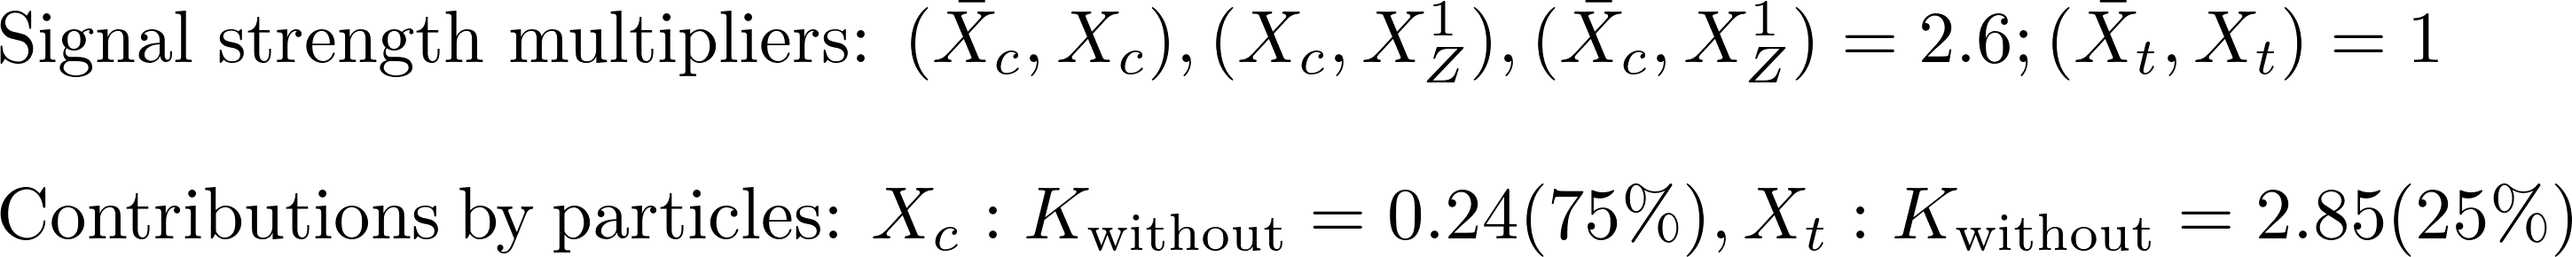
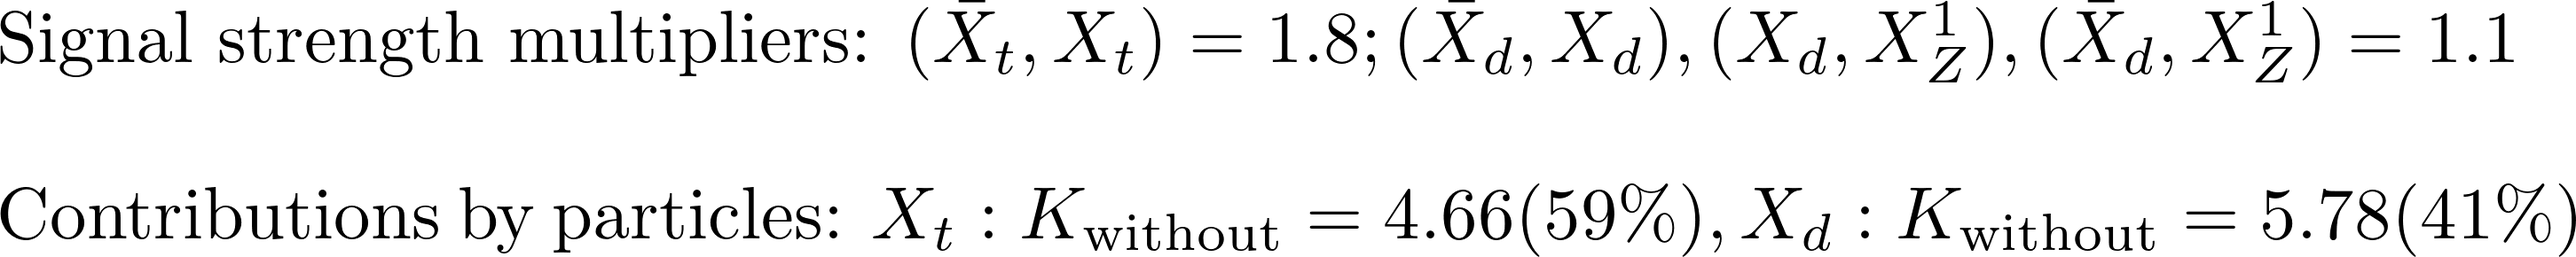
automated update by plotHiscore.py to /scratch-cbe/users/wolfgan.waltenberger/git/smodels.github.io/protomodels

diff --git a/protomodels/2020_PioneerStudy/closure_frozen10/index.html b/protomodels/2020_PioneerStudy/closure_frozen10/index.html
@@ -1,30 +1,31 @@
 <html>
 <body>
 <center>
-<table><td><h1>Current best protomodel: <i>K</i>=4.12</h1><td><img height=60px src=https://smodels.github.io/pics/banner.png></table>
+<table><td><h1>Current best protomodel: <i>K</i>=8.33</h1><td><img height=60px src=https://smodels.github.io/pics/banner.png></table>
 </center>
-<b><a href=./hiscore.slha>ProtoModel</a> <a href=./pmodel.py>(dict)</a> produced with <a href=https://smodels.github.io/docs/Validation124doublefrozen10>database v1.2.4doublefrozen10</a>, combination strategy <a href=./matrix_aggressive.png>aggressive</a> in walker 15 step 923.</b> <i>K</i> plots for: <a href=./M1000022.png?15052720>X<sub>Z</sub><sup>1</sup></a>, <a href=./M1000006.png?15052720>X<sub>t</sub></a>, <a href=./M1000004.png?15052720>X<sub>c</sub></a>. HPD plots for: <a href=./llhd1000006.png?15052720>X<sub>t</sub></a>, <a href=./llhd1000004.png?15052720>X<sub>c</sub></a>. SSM plots for: <a href=./ssm_-1000006_1000006.png?15052720>(x&#772;<sub>t</sub>,X<sub>t</sub>)</a><br>
+<b><a href=./hiscore.slha>ProtoModel</a> <a href=./pmodel.py>(dict)</a> produced with <a href=https://smodels.github.io/docs/Validation124frozen10>database v1.2.4frozen10</a>, combination strategy <a href=./matrix_aggressive.png>aggressive</a> in walker 15 step 967.</b> <i>K</i> plots for: <a href=./M1000022.png?15309859>X<sub>Z</sub><sup>1</sup></a>, <a href=./M1000006.png?15309859>X<sub>t</sub></a>, <a href=./M1000001.png?15309859>X<sub>d</sub></a>. HPD plots for: <a href=./llhd1000006.png?15309859>X<sub>t</sub></a>, <a href=./llhd1000001.png?15309859>X<sub>d</sub></a>. SSM plots for: <a href=./ssm_-1000006_1000006.png?15309859>(x&#772;<sub>t</sub>,X<sub>t</sub>)</a><br>
 <table width=80%>
 <tr><td>
-<br><b>25 predictions available. Highest r values are:</b><br><ul>
-<li><a href=http://cms-results.web.cern.ch/cms-results/public-results/publications/SUS-19-006/index.html>CMS-SUS-19-006</a>:T2 r=1.30, r<sub>exp</sub>=1.30<br>
-<li><a href=http://cms-results.web.cern.ch/cms-results/public-results/publications/SUS-16-033/index.html>CMS-SUS-16-033</a>:T2 r=1.01, r<sub>exp</sub>=1.01<br>
-<li><a href=http://cms-results.web.cern.ch/cms-results/public-results/publications/SUS-16-049/index.html>CMS-SUS-16-049</a>:T2tt r=0.93, r<sub>exp</sub>=0.93<br>
-<li><a href=http://cms-results.web.cern.ch/cms-results/public-results/publications/SUS-16-036/index.html>CMS-SUS-16-036</a>:T2 r=0.93, r<sub>exp</sub>=0.93<br>
-<li><a href=http://cms-results.web.cern.ch/cms-results/public-results/publications/SUS-16-050/index.html>CMS-SUS-16-050</a>:T2tt r=0.85, r<sub>exp</sub>=0.85<br>
+<br><b>23 predictions available. Highest r values are:</b><br><ul>
+<li><a href=http://cms-results.web.cern.ch/cms-results/public-results/publications/SUS-19-006/index.html>CMS-SUS-19-006</a>:T2tt r=0.65, r<sub>exp</sub>=N/A<br>
+<li><a href=http://cms-results.web.cern.ch/cms-results/public-results/publications/SUS-16-050/index.html>CMS-SUS-16-050</a>:T2tt r=0.59, r<sub>exp</sub>=N/A<br>
+<li><a href=http://cms-results.web.cern.ch/cms-results/public-results/publications/SUS-16-049/index.html>CMS-SUS-16-049</a>:T2tt r=0.57, r<sub>exp</sub>=N/A<br>
+<li><a href=http://cms-results.web.cern.ch/cms-results/public-results/publications/SUS-19-006/index.html>CMS-SUS-19-006</a>:T2 r=0.49, r<sub>exp</sub>=N/A<br>
+<li><a href=http://cms-results.web.cern.ch/cms-results/public-results/publications/SUS-16-036/index.html>CMS-SUS-16-036</a>:T2tt r=0.47, r<sub>exp</sub>=N/A<br>
 </ul>
 <td><br><b>K values without analyses: (contribution)</b><br>
 <ul>
-<li> <a href=https://twiki.cern.ch/twiki/bin/view/CMSPublic/PhysicsResultsSUS13012>CMS-SUS-13-012</a>: 5.24 (-35%)
-<li> <a href=https://atlas.web.cern.ch/Atlas/GROUPS/PHYSICS/PAPERS/SUSY-2013-02/>ATLAS-SUSY-2013-02</a>: 4.98 (-27%)
-<li> <a href=http://cms-results.web.cern.ch/cms-results/public-results/publications/SUS-16-033/index.html>CMS-SUS-16-033</a>: 4.35 (-7%)
-<li> <a href=https://atlas.web.cern.ch/Atlas/GROUPS/PHYSICS/PAPERS/SUSY-2016-16/>ATLAS-SUSY-2016-16</a>: 2.59 (48%)
-<li> <a href=https://atlas.web.cern.ch/Atlas/GROUPS/PHYSICS/PAPERS/SUSY-2016-07/>ATLAS-SUSY-2016-07</a>: 0.26 (121%)
-<td><img width=600px src=./texdoc.png?1608052720>
-<br><font size=-1>Last updated: Tue Dec 15 18:18:40 2020</font>
+<li> <a href=http://cms-results.web.cern.ch/cms-results/public-results/publications/SUS-16-051/index.html>CMS-SUS-16-051</a>: 0.46 (15%)
+<li> <a href=http://cms-results.web.cern.ch/cms-results/public-results/publications/SUS-16-036/index.html>CMS-SUS-16-036</a>: 0.46 (15%)
+<li> <a href=https://twiki.cern.ch/twiki/bin/view/CMSPublic/PhysicsResultsSUS13012>CMS-SUS-13-012</a>: 0.46 (15%)
+<li> <a href=https://atlas.web.cern.ch/Atlas/GROUPS/PHYSICS/PAPERS/SUSY-2013-02/>ATLAS-SUSY-2013-02</a>: 0.40 (15%)
+<li> <a href=https://atlas.web.cern.ch/Atlas/GROUPS/PHYSICS/PAPERS/SUSY-2016-07/>ATLAS-SUSY-2016-07</a>: -0.80 (18%)
+<li> <a href=https://atlas.web.cern.ch/Atlas/GROUPS/PHYSICS/PAPERS/SUSY-2016-16/>ATLAS-SUSY-2016-16</a>: -2.22 (21%)
+<td><img width=600px src=./texdoc.png?1608309859>
+<br><font size=-1>Last updated: Fri Dec 18 17:44:19 2020</font>
 </table><table style="width:80%">
-<td width=45%><img height=580px src=./ruler.png?1608052720><td width=55%><img height=380px src=./decays.png?1608052720>
-<font size=-3><iframe type="text/html" height="220px" width="100%s" frameborder="0" src="./rawnumbers.html?1608052720"></iframe></font>
+<td width=45%><img height=580px src=./ruler.png?1608309859><td width=55%><img height=380px src=./decays.png?1608309859>
+<font size=-3><iframe type="text/html" height="220px" width="100%s" frameborder="0" src="./rawnumbers.html?1608309859"></iframe></font>
 </table>
 </body>
 </html>

diff --git a/protomodels/2020_PioneerStudy/closure_frozen10/rawnumbers.html b/protomodels/2020_PioneerStudy/closure_frozen10/rawnumbers.html
@@ -1,9 +1,10 @@
 <table>
 <tr><th>Analysis Name</th><th>Type</th><th>Dataset</th><th>Topos</th><th>Observed</th><th>Expected</th><th>Approx &sigma;</th><th>Particles</th><th>Signal</th>
 </tr>
-<tr><td><a href=https://atlas.web.cern.ch/Atlas/GROUPS/PHYSICS/PAPERS/SUSY-2013-02/>ATLAS-SUSY-2013-02</a></td><td>em</td> <td>SR2jm</td><td>T2</td><td>791.45</td><td>760 +/- 50</td><td style="text-align:right">0.6 &sigma;</td><td style="text-align:right">X<sub>c</sub></td><td style="text-align:right">31.45</td></tr>
-<tr><td><a href=https://atlas.web.cern.ch/Atlas/GROUPS/PHYSICS/PAPERS/SUSY-2016-07/>ATLAS-SUSY-2016-07</a></td><td>em</td> <td>2j_Meff_1200</td><td>T2</td><td>614.32</td><td>526 +/- 31</td><td style="text-align:right">2.3 &sigma;</td><td style="text-align:right">X<sub>c</sub></td><td style="text-align:right">88.32</td></tr>
+<tr><td><a href=https://atlas.web.cern.ch/Atlas/GROUPS/PHYSICS/PAPERS/SUSY-2013-02/>ATLAS-SUSY-2013-02</a></td><td>em</td> <td>SR4jt</td><td>T2</td><td>2.73</td><td>2.5 +/- 1</td><td style="text-align:right">0.1 &sigma;</td><td style="text-align:right">X<sub>d</sub></td><td style="text-align:right">0.23</td></tr>
+<tr><td><a href=https://atlas.web.cern.ch/Atlas/GROUPS/PHYSICS/PAPERS/SUSY-2016-07/>ATLAS-SUSY-2016-07</a></td><td>em</td> <td>2j_Meff_1200</td><td>T2</td><td>570.16</td><td>526 +/- 31</td><td style="text-align:right">1.1 &sigma;</td><td style="text-align:right">X<sub>d</sub></td><td style="text-align:right">44.16</td></tr>
 <tr><td><a href=https://atlas.web.cern.ch/Atlas/GROUPS/PHYSICS/PAPERS/SUSY-2016-16/>ATLAS-SUSY-2016-16</a></td><td>em</td> <td>tN_high</td><td>T2tt</td><td>7.73</td><td>3.8 +/- 1</td><td style="text-align:right">1.8 &sigma;</td><td style="text-align:right">X<sub>t</sub></td><td style="text-align:right">3.93</td></tr>
-<tr><td><a href=https://twiki.cern.ch/twiki/bin/view/CMSPublic/PhysicsResultsSUS13012>CMS-SUS-13-012</a></td><td>em</td> <td>8NJetinf_500HT8 ...</td><td>T2</td><td>4.80</td><td>4.8 +/- 2.3</td><td style="text-align:right">0.0 &sigma;</td><td style="text-align:right">X<sub>c</sub></td><td style="text-align:right">0.00</td></tr>
-<tr><td><a href=http://cms-results.web.cern.ch/cms-results/public-results/publications/SUS-16-033/index.html>CMS-SUS-16-033</a></td><td>em</td> <td>SR1_Njet2_Nb0_H ...</td><td>T2, T2tt</td><td>8000.72</td><td>7584 +/- 433</td><td style="text-align:right">0.9 &sigma;</td><td style="text-align:right">X<sub>c</sub>, X<sub>t</sub></td><td style="text-align:right">416.72</td></tr>
+<tr><td><a href=https://twiki.cern.ch/twiki/bin/view/CMSPublic/PhysicsResultsSUS13012>CMS-SUS-13-012</a></td><td>ul</td> <td>-</td><td>T2</td><td> 11.8 fb </td><td> 9.2 fb</td><td style="text-align:right">0.6 &sigma;</td><td style="text-align:right">X<sub>d</sub></td><td style="text-align:right">2.66 fb</td></tr>
+<tr><td><a href=http://cms-results.web.cern.ch/cms-results/public-results/publications/SUS-16-036/index.html>CMS-SUS-16-036</a></td><td>ul</td> <td>-</td><td>T2</td><td> 39.0 fb </td><td> 15.0 fb</td><td style="text-align:right">3.1 &sigma;</td><td style="text-align:right">X<sub>d</sub></td><td style="text-align:right">23.95 fb</td></tr>
+<tr><td><a href=http://cms-results.web.cern.ch/cms-results/public-results/publications/SUS-16-051/index.html>CMS-SUS-16-051</a></td><td>ul</td> <td>-</td><td>T2tt</td><td> 6.8 fb </td><td> 4.2 fb</td><td style="text-align:right">1.2 &sigma;</td><td style="text-align:right">X<sub>t</sub></td><td style="text-align:right">2.62 fb</td></tr>
 </table>

diff --git a/protomodels/2020_PioneerStudy/closure_frozen10/pmodel.py b/protomodels/2020_PioneerStudy/closure_frozen10/pmodel.py
@@ -1,1 +1,1 @@
-{'masses': {1000022: 490.35, 1000004: 872.315, 1000006: 1021.263}, 'ssmultipliers': {(1000022, 1000022): 2819967946630418.5, (1000004, 1000004): 2.279, (-1000004, 1000004): 2.617, (-1000004, -1000004): 2.617, (1000004, 1000022): 2.617, (-1000004, 1000022): 2.617, (1000006, 1000006): 1.018, (-1000006, 1000006): 1.018, (-1000006, -1000006): 1.018, (1000006, 1000022): 1.018, (-1000006, 1000022): 1.018, (1000004, 1000006): 1.018, (-1000006, 1000004): 1.018, (-1000004, 1000006): 1.018, (-1000006, -1000004): 1.018}, 'decays': {1000022: {}, 1000004: {(1000022, 4): 1.0}, 1000006: {(1000022, 6): 1.0}}, 'timestamp': 'Tue Dec 15 18:18:29 2020', 'Z': 2.77, 'K': 4.122, 'walkerid': 15, 'step': 923, 'codever': '1.0', 'dbver': '1.2.4doublefrozen10'}
+{'masses': {1000022: 164.79, 1000006: 1192.695, 1000001: 874.587}, 'ssmultipliers': {(1000022, 1000022): 0.0, (1000006, 1000006): 1.771, (-1000006, 1000006): 1.771, (-1000006, -1000006): 1.771, (1000006, 1000022): 1.771, (-1000006, 1000022): 1.771, (1000001, 1000001): 1.079, (-1000001, 1000001): 1.079, (-1000001, -1000001): 1.079, (1000001, 1000022): 1.079, (-1000001, 1000022): 1.079, (1000001, 1000006): 1.079, (-1000001, 1000006): 1.079, (-1000006, 1000001): 1.079, (-1000006, -1000001): 1.079}, 'decays': {1000022: {}, 1000006: {(1000022, 6): 1.0}, 1000001: {(1000022, 1): 1.0}}, 'timestamp': 'Fri Dec 18 17:44:08 2020', 'Z': 3.447, 'K': 8.332, 'walkerid': 15, 'step': 967, 'codever': '1.0', 'dbver': '1.2.4frozen10'}
